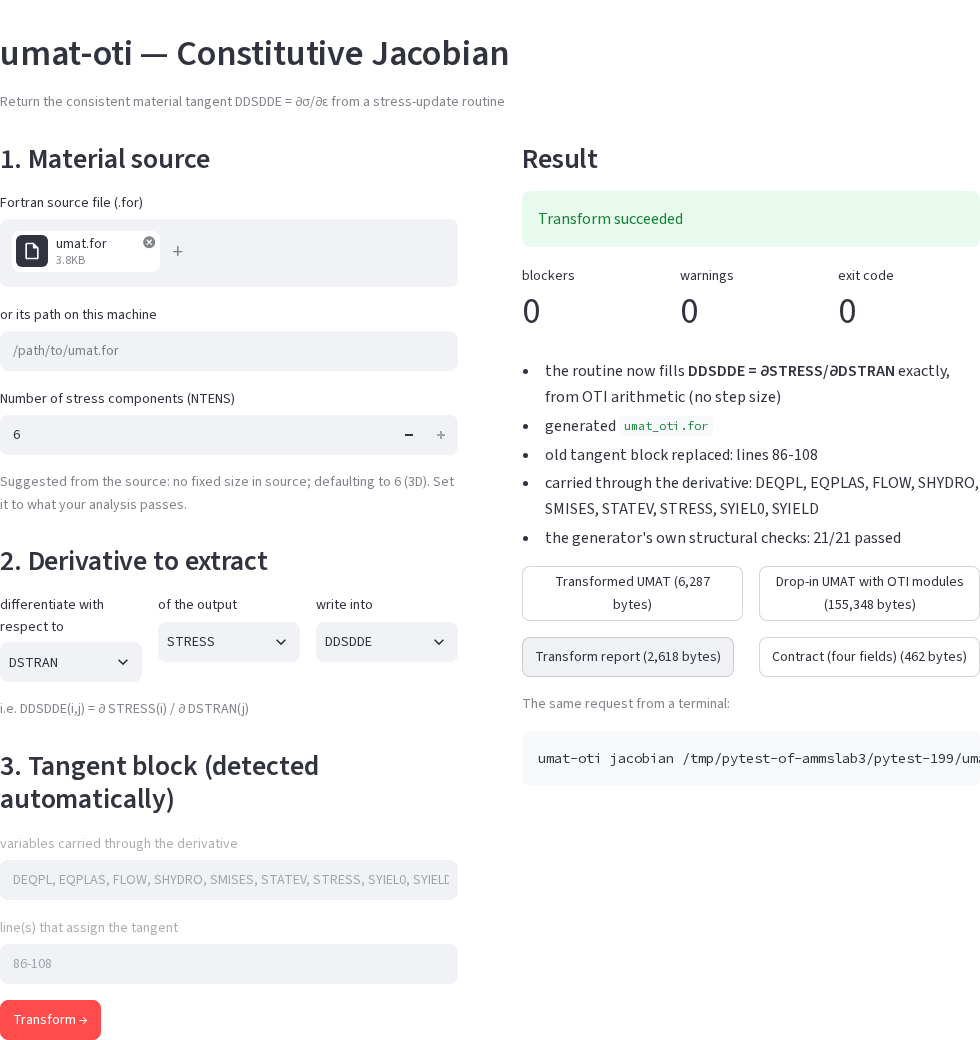
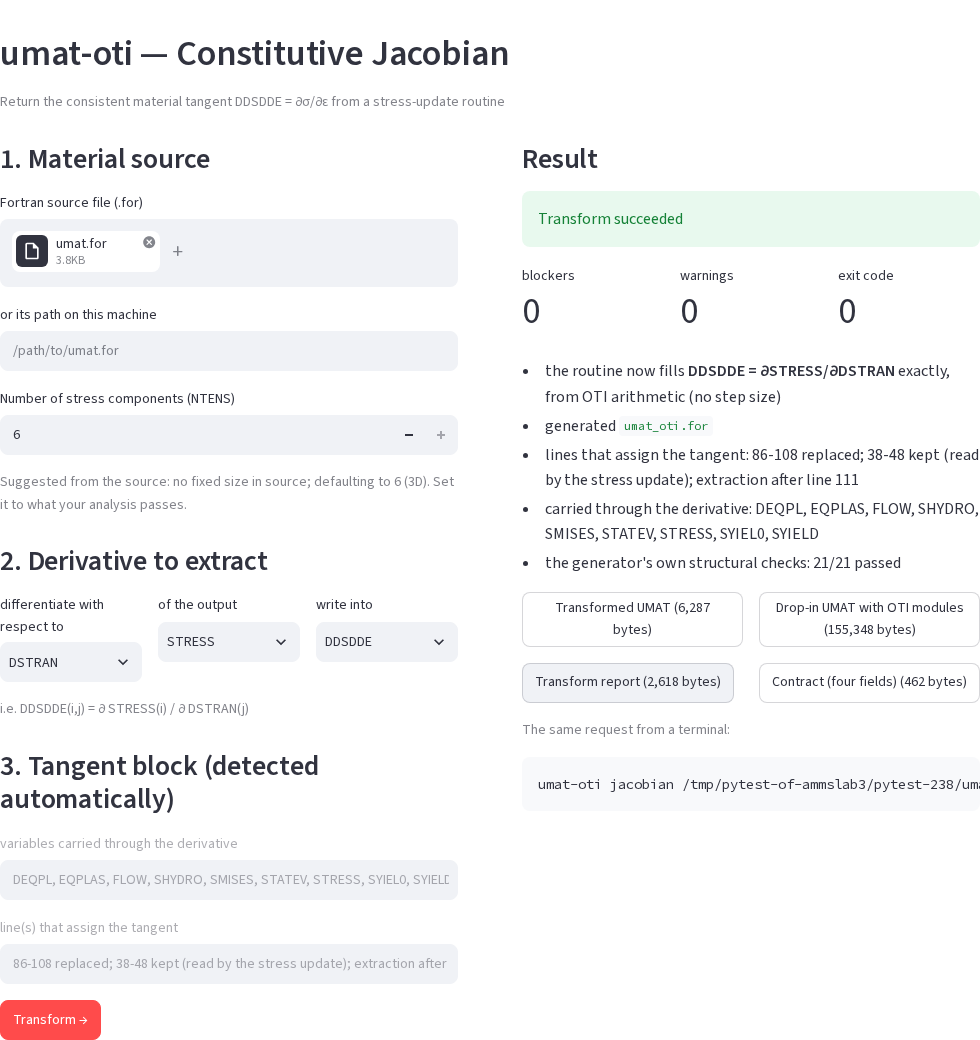
Describe what happens to the tangent lines, and cover slide 16's FCC routine
The FCC crystal routine (slide 16's own example) assigns DDSDDE only once,
before the stress update, which reads it; the screen said "(none found)"
there. The preview now says what the transformer does: which block is
replaced, which assignment is kept because the stress update reads it, and
the line after which the OTI extraction fills DDSDDE (J2: "86-108 replaced;
38-48 kept ...; extraction after line 111"; FCC: "131-133 kept ...;
extraction after line 189").

The FCC transform is checked like the others (byte-identical to the CLI) and
its drop-in tangent against centred FD of the original on the check path
scaled by 0.3: scaled errors 4.57e-5, 4.57e-7, 4.57e-9 at steps 1e-6..1e-8,
the h^2 convergence the test requires. A routine that is not a UMAT is
refused with the service's exit code and reasons, as the CLI refuses it.
New front ends are registered in the front-end equivalence test.

Offline suite (before the last test was added): 3 failed (the two
pre-existing documentation audits and the fingerprint record), 3345 passed,
125 skipped, 6 deselected; the added test and its neighbours: 22 passed.

(cherry picked from commit f901a79d8c405b9d4fce6350a6c650b16c3df408)

Changed region(s): [[0.5204, 0.4308, 1.0, 0.7692], [0.7959, 0.7077, 0.9184, 0.7692], [0.949, 0.7077, 1.0, 0.7692]]

diff --git a/tests/gui/test_imqcam_developer_screens.py b/tests/gui/test_imqcam_developer_screens.py
@@ -74,17 +74,30 @@ def _jacobian_run(source: Path, ntens: int) -> dict:
     return run
 
 
+#: What the screen says about the lines that assign DDSDDE, and the block the
+#: transform report says it replaced. The J2 routine's elastic stiffness at
+#: 38-48 is the predictor the stress update reads, so it stays; the FCC routine
+#: assigns DDSDDE only there (line 132, the slide's "132-132").
+BLOCKS = {
+    "m3_j2": ("86-108 replaced; 38-48 kept (read by the stress update); extraction after line 111", "86-108"),
+    "elastic": ("83-87 replaced; extraction after line 87", "83-87"),
+    "m6_fcc": ("131-133 kept (read by the stress update); extraction after line 189", "(none found)"),
+}
+
+
 @pytest.mark.integration
-@pytest.mark.parametrize("source,ntens,lines", [
-    (J2_SOURCE, 6, "86-108"), (ELASTIC_SOURCE, 4, "83-87"),
-], ids=["m3_j2", "elastic"])
-def test_four_fields_and_one_click_give_what_the_command_line_gives(workspace, source, ntens, lines):
+@pytest.mark.parametrize("source,ntens,model", [
+    (J2_SOURCE, 6, "m3_j2"), (ELASTIC_SOURCE, 4, "elastic"), (FCC_SOURCE, 6, "m6_fcc"),
+], ids=["m3_j2", "elastic", "m6_fcc"])
+def test_four_fields_and_one_click_give_what_the_command_line_gives(workspace, source, ntens, model):
     run = _jacobian_run(source, ntens)
     assert run["exit_code"] == 0
     # "The Jacobian block is found for you": shown before the click, and the
-    # transformer replaced exactly that block.
-    assert run["shown"]["line(s) that assign the tangent"] == lines
-    assert jr.format_lines(run["tangent_lines"]) == lines
+    # transform report agrees about the block it replaced.
+    shown, replaced = BLOCKS[model]
+    assert run["shown"]["line(s) that assign the tangent"] == shown
+    assert run["tangent_block"] == shown
+    assert jr.format_lines(run["tangent_lines"]) == replaced
     assert "STRESS" in run["shown"]["variables carried through the derivative"]
     assert any(label.startswith("Transformed UMAT") for label in run["downloads"])
     assert any(label.startswith("Transform report") for label in run["downloads"])
@@ -98,6 +111,7 @@ def test_four_fields_and_one_click_give_what_the_command_line_gives(workspace, s
     gui_file, cli_file = Path(run["transformed"]), cli_out / Path(run["transformed"]).name
     assert gui_file.read_bytes() == cli_file.read_bytes()
     assert Path(run["drop_in"]).read_bytes() == (cli_out / Path(run["drop_in"]).name).read_bytes()
+    assert json.loads(completed.stdout)["transform_success"] is True
     # And through umat-oti-config with the contract the screen wrote.
     config_out = workspace / "config"
     completed = subprocess.run(
@@ -105,6 +119,26 @@ def test_four_fields_and_one_click_give_what_the_command_line_gives(workspace, s
          "--out", str(config_out)], capture_output=True, text=True)
     assert completed.returncode == 0, completed.stderr
     assert (config_out / gui_file.name).read_bytes() == gui_file.read_bytes()
+
+
+@pytest.mark.integration
+def test_a_routine_that_is_not_a_umat_is_refused_with_the_services_reasons(workspace):
+    source = workspace / "not_a_umat.for"
+    source.write_text("      SUBROUTINE FOO(X)\n      X=1.0\n      RETURN\n      END\n")
+    app = AppTest.from_string(JACOBIAN, default_timeout=180).run()
+    app.text_input(key="pj_path").set_value(str(source)).run()
+    app.button(key="pj_transform").click().run()
+    assert not app.exception
+    run = app.session_state["pj_run"]
+    assert run["exit_code"] != 0 and not run["succeeded"]
+    assert any(e.value.startswith(f"Transform did not succeed (exit code {run['exit_code']}")
+               for e in app.error)
+    assert not app.success and not app.get("download_button")
+    # The command line refuses the same four fields with the same exit code.
+    completed = subprocess.run(
+        [sys.executable, "-m", "umat_oti.cli", "jacobian", str(source), "--ntens", "6",
+         "--out", str(workspace / "cli")], capture_output=True, text=True)
+    assert completed.returncode == run["exit_code"]
 
 
 @pytest.mark.integration
@@ -142,6 +176,32 @@ def test_the_downloaded_umat_returns_the_tangent_of_the_original(workspace, sour
                                      props=props, path=path, ntens=ntens, nstatv=nstatv)
     assert measured["primal_max_abs"] <= 1e-10 * measured["stress_scale"]
     assert max(measured["tangent_scaled_errors"]) < 2e-6, measured["tangent_scaled_errors"]
+
+
+@pytest.mark.slow
+@pytest.mark.fortran
+def test_the_fcc_tangent_is_the_limit_of_the_finite_differences(workspace):
+    """Slide 16's own example: the 12-slip-system crystal, at slide 17's values.
+
+    The path is the provider check path scaled by 0.3, which drives slip on
+    this rate-dependent, explicitly sub-stepped update without leaving the
+    range it integrates (the unscaled path gives non-finite values in the
+    ORIGINAL). Here the centred difference's truncation error, proportional
+    to h**2, dominates at the larger steps, so no fixed step agrees to 2e-6.
+    What is required instead is the behaviour of a derivative the differences
+    converge to: each tenfold reduction of the step reduces the scaled error
+    by at least 50 (h**2 gives 100), and the finest step agrees to 1e-8.
+    """
+    from tangent_reference import compare_with_original
+
+    run = _jacobian_run(FCC_SOURCE, 6)
+    props = [value for _, _, value in FCC_TABLE]
+    measured = compare_with_original(Path(run["drop_in"]), FCC_SOURCE, workspace / "fd",
+                                     props=props, path=J2_PATH * 0.3, ntens=6, nstatv=12)
+    errors = measured["tangent_scaled_errors"]
+    assert measured["primal_max_abs"] <= 1e-10 * measured["stress_scale"]
+    assert errors[0] / errors[1] > 50 and errors[1] / errors[2] > 50, errors
+    assert errors[2] < 1e-8, errors
 
 
 def _provider_app(source: Path, table, nstatv: int, *, j2: bool) -> AppTest:

diff --git a/src/umat_oti/app/presentation_screens.py b/src/umat_oti/app/presentation_screens.py
@@ -141,7 +141,7 @@ def render_jacobian_screen() -> None:
                       value=", ".join(preview.get("carried_variables") or []),
                       key=f"pj_carried_{hash(str(preview))}")
         st.text_input("line(s) that assign the tangent", disabled=True,
-                      value=jr.format_lines(preview.get("tangent_lines") or []) if preview else "",
+                      value=jr.describe_tangent_block(preview) if preview else "",
                       key=f"pj_lines_{hash(str(preview))}")
         if problem:
             st.error(problem)
@@ -157,6 +157,7 @@ def render_jacobian_screen() -> None:
                 "target": target, "out_dir": str(out_dir), "exit_code": run.exit_code,
                 "succeeded": run.succeeded, "summary": run.summary,
                 "tangent_lines": run.tangent_lines(), "carried": run.carried_variables(),
+                "tangent_block": jr.describe_tangent_block(preview),
                 "contract": str(run.contract_path),
                 "transformed": str(run.transformed_source or ""),
                 "drop_in": str(run.drop_in_source or ""),
@@ -173,13 +174,14 @@ def _render_jacobian_result(run: dict[str, Any] | None) -> None:
         st.info("Load a UMAT on the left and press **Transform**.")
         return
     summary = run["summary"]
-    report = summary.get("report_path") and json.loads(Path(summary["report_path"]).read_text()) or {}
+    report_path = Path(str(summary.get("report_path") or ""))
+    report = json.loads(report_path.read_text()) if report_path.is_file() else {}
     if run["succeeded"]:
         st.success("Transform succeeded")
     else:
         st.error(f"Transform did not succeed (exit code {run['exit_code']}, "
                  f"`{summary.get('status_category') or 'no category'}`)")
-        for field in ("error", "errors", "blockers"):
+        for field in ("error", "errors", "blockers", "completion_issues"):
             if summary.get(field):
                 st.code(json.dumps(summary[field], indent=2, default=str), language="json")
     m1, m2, m3 = st.columns(3)
@@ -194,7 +196,7 @@ def _render_jacobian_result(run: dict[str, Any] | None) -> None:
             f"- the routine now fills **{run['target']} = ∂{run['response']}/∂{run['seed']}** "
             "exactly, from OTI arithmetic (no step size)\n"
             f"- generated `{transformed.name if transformed else '?'}`\n"
-            f"- old tangent block replaced: lines {jr.format_lines(run['tangent_lines'])}\n"
+            f"- lines that assign the tangent: {run.get('tangent_block')}\n"
             f"- carried through the derivative: {', '.join(run['carried'])}\n"
             f"- the generator's own structural checks: {passed}/{len(checks)} passed")
         d1, d2 = st.columns(2)

diff --git a/src/umat_oti/services/jacobian_request.py b/src/umat_oti/services/jacobian_request.py
@@ -179,12 +179,47 @@ def preview_tangent_block(source: Path | str, *, ntens: int,
                      if isinstance(row, dict) and row.get("selected_role") == "Promote")
     lines = ([(int(output["start_line"]), int(output["end_line"]))]
              if output.get("start_line") else [])
-    return {"tangent_lines": lines, "carried_variables": carried,
+    kept = _merged([(int(row["start_line"]), int(row["end_line"]))
+                    for row in anchors.get("shared_setup_regions_to_keep") or []
+                    if isinstance(row, dict)
+                    and row.get("role") == "keep_real_required_by_stress_update"])
+    extraction = (anchors.get("ddsdde_extraction") or {}).get("insert_after_line")
+    return {"tangent_lines": lines, "kept_lines": kept,
+            "extraction_after": int(extraction) if extraction else None,
+            "carried_variables": carried,
             "anchor_status": anchor_completion_status(config).get("status"),
             "routine": (config.get("source") or {}).get("selected_umat_name")
             or (config.get("source") or {}).get("detected_umat_name") or "UMAT"}
 
 
+def _merged(spans: list[tuple[int, int]]) -> list[tuple[int, int]]:
+    merged: list[tuple[int, int]] = []
+    for start, end in sorted(spans):
+        if merged and start <= merged[-1][1]:
+            merged[-1] = (merged[-1][0], max(merged[-1][1], end))
+        else:
+            merged.append((start, end))
+    return merged
+
+
 def format_lines(spans: list[tuple[int, int]]) -> str:
     """``[(86, 108)]`` -> ``"86-108"``, the way the screen shows line ranges."""
     return ", ".join(f"{start}-{end}" for start, end in spans) or "(none found)"
+
+
+def describe_tangent_block(preview: dict[str, Any]) -> str:
+    """What happens to the lines that assign DDSDDE, in one line.
+
+    A hand-written tangent after the stress update is *replaced*. An
+    assignment the stress update itself reads (an elastic stiffness used as
+    the predictor) is *kept*. In both cases the OTI extraction that fills
+    DDSDDE is written after the line the anchors name.
+    """
+    parts = []
+    if preview.get("tangent_lines"):
+        parts.append(f"{format_lines(preview['tangent_lines'])} replaced")
+    if preview.get("kept_lines"):
+        parts.append(f"{format_lines(preview['kept_lines'])} kept (read by the stress update)")
+    if preview.get("extraction_after"):
+        parts.append(f"extraction after line {preview['extraction_after']}")
+    return "; ".join(parts) or "(none found)"

diff --git a/tests/gui/test_imqcam_developer_screens_browser.py b/tests/gui/test_imqcam_developer_screens_browser.py
@@ -101,16 +101,21 @@ def _jacobian(page, source: Path, ntens: int, lines: str):
     return panel
 
 
-@pytest.mark.parametrize("source,ntens,lines,shot", [
-    (J2_SOURCE, 6, "86-108", "umat_constitutive_jacobian.png"),
-    (ELASTIC_SOURCE, 4, "83-87", None),
-], ids=["m3_j2", "elastic"])
-def test_slide16_constitutive_jacobian(page, server, tmp_path, source, ntens, lines, shot):
+J2_BLOCK = "86-108 replaced; 38-48 kept (read by the stress update); extraction after line 111"
+
+
+@pytest.mark.parametrize("source,ntens,lines,replaced,shot", [
+    (J2_SOURCE, 6, J2_BLOCK, "1  (lines 86-108)", "umat_constitutive_jacobian.png"),
+    (ELASTIC_SOURCE, 4, "83-87 replaced; extraction after line 87", "1  (lines 83-87)", None),
+    (FCC_SOURCE, 6, "131-133 kept (read by the stress update); extraction after line 189", "0  ()",
+     "umat_constitutive_jacobian_fcc.png"),
+], ids=["m3_j2", "elastic", "m6_fcc"])
+def test_slide16_constitutive_jacobian(page, server, tmp_path, source, ntens, lines, replaced, shot):
     panel = _jacobian(page, source, ntens, lines)
     transformed = _download(page, panel.get_by_role("button", name=re.compile("^Transformed UMAT")), tmp_path)
     report = _download(page, panel.get_by_role("button", name=re.compile("^Transform report")), tmp_path)
     assert "Transformation    : SUCCESS" in report.read_text()
-    assert f"Old tangent blocks replaced: 1  (lines {lines})" in report.read_text()
+    assert f"Old tangent blocks replaced: {replaced}" in report.read_text()
     completed = subprocess.run(
         [sys.executable, "-m", "umat_oti.cli", "jacobian", str(source), "--ntens", str(ntens),
          "--out", str(tmp_path / "cli")], capture_output=True, text=True,
@@ -134,7 +139,7 @@ def _build(page, panel, *, j2: bool, expected: str):
 
 def test_slide17_parameter_sensitivities_j2(page, server, tmp_path):
     """Take the UMAT from the transform, list E, nu, SIGY0, H, tick, Build."""
-    _jacobian(page, J2_SOURCE, 6, "86-108")
+    _jacobian(page, J2_SOURCE, 6, J2_BLOCK)
     page.get_by_role("tab", name="Parameter Sensitivities", exact=True).click()
     panel = page.get_by_role("tabpanel", name="Parameter Sensitivities")
     expect(panel.get_by_role("heading", name="umat-oti — Parameter Sensitivities")).to_be_visible()

diff --git a/tests/test_frontend_equivalence.py b/tests/test_frontend_equivalence.py
@@ -26,6 +26,10 @@ DELEGATED_FRONT_ENDS = {
     "src/umat_oti/cli_batch.py": "run_transformation",
     "src/umat_oti/app/engine.py": "run_transformation",
     "src/umat_oti/app/streamlit_app.py": "run_transformation",
+    # The four-field Jacobian screen and `umat-oti jacobian` share one function,
+    # and that function reaches the service.
+    "src/umat_oti/app/presentation_screens.py": "run_jacobian_transform",
+    "src/umat_oti/services/jacobian_request.py": "run_transformation",
     "src/umat_oti/reports/run_softwarex_evidence.py": "run_transformation",
     "src/umat_oti/pipeline/stages.py": "run_transformation",
 }

diff --git a/docs/GUI.md b/docs/GUI.md
@@ -42,7 +42,7 @@ you. Click Transform."
 | Fortran source file (.for) | an upload, or a path on this machine |
 | Number of stress components (NTENS) | 3, 4 or 6. The screen suggests a value from the source; the user decides |
 | differentiate with respect to / of the output / write into | `DSTRAN` / `STRESS` / `DDSDDE` by default |
-| Tangent block (detected automatically) | read-only: the lines the transformer will replace and the variables it will carry through the derivative |
+| Tangent block (detected automatically) | read-only: what happens to the lines that assign DDSDDE, and the variables the transform will carry through the derivative. A hand-written tangent after the stress update is *replaced*. An assignment the stress update itself reads (an elastic stiffness used as the predictor) is *kept*. The OTI extraction that fills DDSDDE is written after the named line |
 
 **What it calls.** `umat_oti.services.jacobian_request.run_jacobian_transform`
 ([source](../src/umat_oti/services/jacobian_request.py)). It writes a compact
@@ -71,8 +71,10 @@ umat-oti-config --config out_dir/jacobian_contract.json --out out_dir2
 **Measured (2026-09-18).**
 
 - m3_j2 (`parameter_sensitivity/models/m3_j2/umat.for`, NTENS 6): the screen
-  finds the old tangent at lines 86-108 and carries DEQPL, EQPLAS, FLOW,
-  SHYDRO, SMISES, STATEV, STRESS, SYIEL0 and SYIELD. It reports 0 blockers,
+  shows "86-108 replaced; 38-48 kept (read by the stress update); extraction
+  after line 111" and carries DEQPL, EQPLAS, FLOW, SHYDRO, SMISES, STATEV,
+  STRESS, SYIEL0 and SYIELD. The slide shows "107-107", the last DDSDDE
+  assignment, for this line field. It reports 0 blockers,
   0 warnings and 21 of 21 structural checks passed. The downloaded
   `umat_oti.for` and the drop-in are byte-identical to the output of
   `umat-oti jacobian` and of `umat-oti-config` with the written contract. The
@@ -83,9 +85,25 @@ umat-oti-config --config out_dir/jacobian_contract.json --out out_dir2
   (stress scale 684). Scaled tangent errors were 3.25e-8, 3.25e-10 and
   2.95e-11 at strain steps 1e-6, 1e-7 and 1e-8.
 - The elastic example (`UMATs/UMATs/ICP/elasticity/elastic.f`, NTENS 4): the
-  screen finds lines 83-87. The transformed `elastic_oti.f` is byte-identical
+  screen shows "83-87 replaced; extraction after line 87". The transformed `elastic_oti.f` is byte-identical
   to what the hand-written `examples/elastic_minimal.json` produces. The
   tangent's scaled errors against FD of the original were at most 2.8e-12.
+- The slide's own example, the FCC crystal-plasticity routine
+  (`parameter_sensitivity/models/m6_fcc/umat.for`, NTENS 6). Its only DDSDDE
+  assignment is the elastic stiffness at line 132, before the stress update;
+  the slide shows "132-132". The screen shows "131-133 kept (read by the
+  stress update); extraction after line 189". It carries BASE, DEP, DG,
+  DGAM, DSUB, GDOT, GRES, HALP, R2, RATIO, STATEV, STRESS and TAU, with
+  21 of 21 structural checks passed, and the output is byte-identical to the
+  CLI's. The drop-in's DDSDDE was compared with centred FD of the original at
+  slide 17's parameter values on the provider check path scaled by 0.3; the
+  unscaled path gives non-finite values in the original. Scaled errors were
+  4.57e-5, 4.57e-7 and 4.57e-9 at steps 1e-6, 1e-7 and 1e-8. Each tenfold
+  step reduction divides the error by 100, which is the h² truncation of the
+  centred difference converging on the OTI value. On the path scaled by 0.1
+  the errors were 1.69e-8, 1.69e-10 and 9.84e-12.
+
+![Constitutive Jacobian on the 12-slip-system FCC routine](screenshots/umat_constitutive_jacobian_fcc.png)
 
 ## Parameter Sensitivities (slides 17 and 41)
 
@@ -102,6 +120,11 @@ Then Build and the OTI-enabled UMAT is automatically generated."
 | parameter / PROPS index / value | one row per parameter. The table starts empty. A source that is byte-identical to a shipped model (`parameter_sensitivity/models/*`) gets a button that fills the table from that model's contract |
 | stress (DSIGMA_DP), state (DSTATEV_DP, auto) | the provider's derivative requests. DSIGMA_DP cannot be switched off because it is what the provider builds. DSTATEV_DP is always carried when NSTATV > 0 |
 | Options | model name (names the canonical `umat_<name>_oti.obj`); verification on/off; require the J2 branch sequence on the check path |
+
+"The UMAT provided by the source transform" is the same source the Constitutive
+Jacobian screen loaded. The provider needs the original routine, because it
+lifts that routine itself with one OTI direction per parameter plus the six
+strain directions. It does not take the DDSDDE-transformed file.
 
 NPROPS is the largest PROPS index in the table, and every slot up to it must
 have a row. The independent check replays the original routine, and that needs
@@ -177,7 +200,7 @@ Exit code 0 means built and verified, 1 means built but not verified, and
 
 | Test | What it drives | Run |
 | --- | --- | --- |
-| `tests/gui/test_imqcam_developer_screens.py` | both screens through `streamlit.testing` (AppTest): GUI output against `umat-oti jacobian` and `umat-oti-config`, the elastic output against the curated example, the downloaded tangent against FD of the original, the J2 and FCC builds against the verifier CLI, and the table and tick rules | the offline suite |
+| `tests/gui/test_imqcam_developer_screens.py` | both screens through `streamlit.testing` (AppTest): GUI output against `umat-oti jacobian` and `umat-oti-config` for m3_j2, elastic and m6_fcc; the elastic output against the curated example; the downloaded tangent against FD of the original (J2, elastic, and the FCC convergence); the J2 and FCC builds against the verifier CLI; and the table and tick rules | the offline suite |
 | `tests/test_provider_regular_object.py` | `umat-oti-provider build --regular-object`: the object is the bundled original; its hash is in the contract; linked alone it replays the original bit for bit | the offline suite |
 | `tests/gui/test_imqcam_developer_screens_browser.py` | the same flows in headless Chromium, as the slides describe them: upload, type the table, tick, click, download. Compares with the CLI and writes the screenshots above | `python -m pytest -m gui tests/gui` |
 
@@ -193,9 +216,19 @@ They are deselected unless `-m gui` is given (see
 - Its independent check uses the provider verifier's fixed seven-increment
   path. A material that cannot integrate that path (m6_fcc) is built but not
   verified.
-- `REAL_UMAT.obj` is compiled with the provider's compiler, gfortran on this
-  machine. Abaqus on Linux normally compiles user subroutines with its own
-  Intel compiler. Linking a gfortran object into an Abaqus job was not tested.
+- `REAL_UMAT.obj` is compiled with the provider's compiler (gfortran here).
+  On Linux, Abaqus accepts a precompiled user object only with the `.o`
+  extension, so it has to be copied to `REAL_UMAT.o`; the bytes stay the
+  same. Measured on 2026-09-18 (Abaqus 2021.HF5, job `claudeG_real`, the
+  presentation example `Analysis.inp`, `user=REAL_UMAT.o`, SHA-256
+  53bac302...): Abaqus linked it with its Intel toolchain and all four
+  increments converged. The .sta ends "THE ANALYSIS HAS COMPLETED
+  SUCCESSFULLY", and the exported U, RF, CF, S and SDV1 of all five frames
+  are identical (max |difference| 0) to the reference job `imqrp_j2`, whose
+  ifort compiled the same source. After the analysis, however, the process
+  aborted with "buffer overflow detected" (signal 6, exit code 1), which the
+  ifort-compiled reference run did not. A production user sees that as a
+  failed job, even though the results are complete.
 - Objects embed absolute build paths in their bounds-check messages, so a
   rebuild does not reproduce them byte for byte. A shared object also reveals
   the developer's directory names, but not the source.

diff --git a/docs/evidence/claude_G.md b/docs/evidence/claude_G.md
@@ -35,6 +35,12 @@ docstring lists the new tabs. Nothing else changed.
 
 One marker line: `gui`.
 
+### `tests/test_frontend_equivalence.py`
+
+Two entries in `DELEGATED_FRONT_ENDS`: the new screen must reach
+`run_jacobian_transform`, and `services/jacobian_request.py` must reach
+`run_transformation`.
+
 ### `docs/PROVIDER.md`
 
 The limit bullet "No ... provider-build GUI entry is added" now says that the
@@ -51,13 +57,29 @@ screen and `--regular-object` were added later, and links docs/GUI.md.
   REAL_UMAT.obj, OTI_UMAT.obj, Mapping.json and transform_report.txt. Run it
   with `python -m umat_oti.provider.collaborator`.
 - `src/umat_oti/app/presentation_screens.py`: the two screens.
-- `tests/gui/test_imqcam_developer_screens.py` (AppTest, offline suite, 13
+- `tests/gui/test_imqcam_developer_screens.py` (AppTest, offline suite, 16
   tests), `tests/test_provider_regular_object.py` (5 tests),
-  `tests/gui/test_imqcam_developer_screens_browser.py` (`-m gui`, 4 tests),
+  `tests/gui/test_imqcam_developer_screens_browser.py` (`-m gui`, 5 tests),
   `tests/gui/tangent_reference.py`, `tests/gui/gui_helpers.py`,
   `tests/gui/conftest.py`.
 - `docs/GUI.md`, and the screenshots `docs/screenshots/umat_constitutive_jacobian.png`,
-  `umat_parameter_sensitivities_j2.png` and `umat_parameter_sensitivities_fcc.png`.
+  `umat_constitutive_jacobian_fcc.png`, `umat_parameter_sensitivities_j2.png`
+  and `umat_parameter_sensitivities_fcc.png`.
+
+## REAL_UMAT.obj in Abaqus
+
+One Abaqus 2021.HF5 job, `claudeG_real`, in `../imq_abaqus/claude_G/abaqus_real/`:
+the presentation example `Analysis.inp` with `user=REAL_UMAT.o`. That is the
+package's REAL_UMAT.obj, SHA-256 53bac302..., copied to `.o` because Abaqus on
+Linux rejects any other extension for a precompiled object. The job linked,
+converged all four increments, and ended its .sta with "THE ANALYSIS HAS
+COMPLETED SUCCESSFULLY". The strict export (`residual_core/io/abaqus_odb_export.py`
+in the RA repository) of its ODB equals the reference `imqrp_j2` export (ifort,
+same source; the Residual_Assembler fixture presentation_j2/fields.json) with max
+|difference| 0 for U, RF, CF, S and SDV1 in all five frames. The process then
+aborted with "buffer overflow detected", signal 6, exit code 1, which the
+reference run did not do. This is recorded here and in docs/GUI.md, and is not
+fixed.
 
 ## Consequence for the transform fingerprint
 
@@ -83,9 +105,9 @@ or to pytest's temporary directories, never into the worktree.
 
 ```text
 python -m pytest -q -p no:cacheprovider tests/gui/test_imqcam_developer_screens.py \
-  tests/test_provider_regular_object.py          -> 18 passed (74.5 s)
+  tests/test_provider_regular_object.py          -> 21 passed
 python -m pytest -q -p no:cacheprovider -m gui tests/gui
-                                                 -> 4 passed, 13 deselected (127 s)
+                                                 -> 5 passed, 15 deselected (146 s)
 ```
 
 The measured numbers (J2 transform and tangent against FD of the original;
